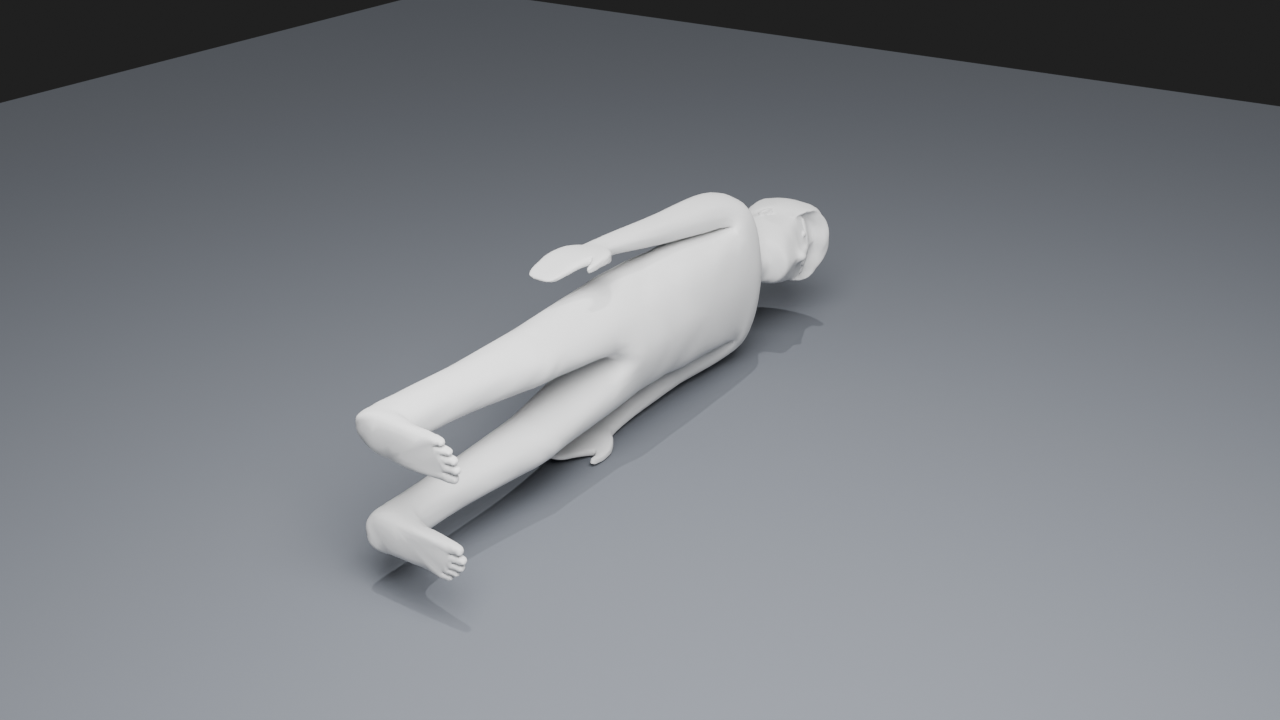
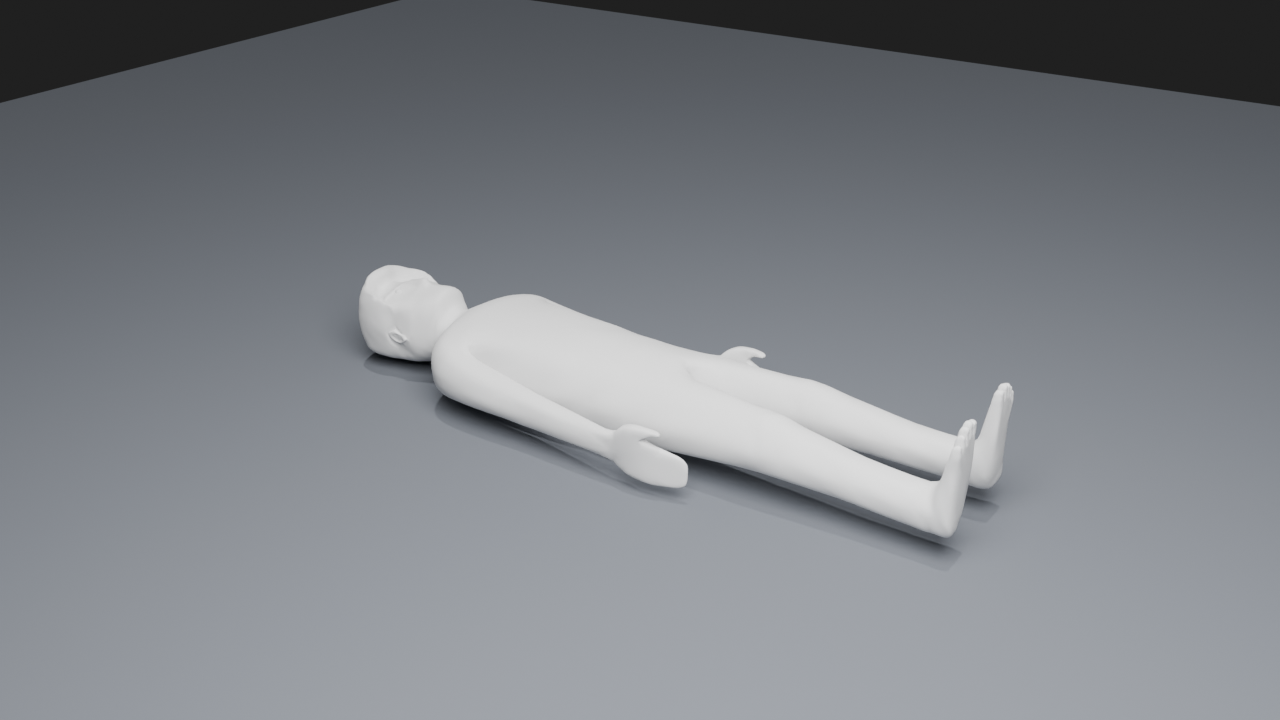
Fix supine orientation (lay on back, not side); correct dimensions
Figure faces along X, so rotate about Y (-90) to lie on its back; rotating
about X only rolled it onto its side. Width/thickness in README were swapped.

Changed region(s): [[0.2812, 0.2444, 0.8125, 0.8556]]

diff --git a/build_blend.py b/build_blend.py
@@ -47,8 +47,10 @@ sub.render_levels = SUBDIV
 #  deterministic). Import is standing: head +Z, long axis Z (~5.54 units).
 s = HEIGHT / max(body.dimensions)
 body.data.transform(mathutils.Matrix.Scale(s, 4))
-# lay supine: -90 deg about X tips head +Z -> +Y and the front face up (+Z)
-body.data.transform(mathutils.Matrix.Rotation(math.radians(-90), 4, 'X'))
+# lay supine: the figure faces along X, so tipping about Y lays it on its BACK
+# (a rotation about X would only roll it onto its side). -90 deg -> face up (+Z),
+# head toward -X, feet toward +X.
+body.data.transform(mathutils.Matrix.Rotation(math.radians(-90), 4, 'Y'))
 body.data.update()
 # drop so the lowest point rests on z = 0
 zmin = min(v.co.z for v in body.data.vertices)

diff --git a/README.md b/README.md
@@ -50,11 +50,11 @@ Scaled to a 1.75 m adult and laid on its back, the mesh measures (in metres):
 
 | Axis | Extent | Meaning |
 |------|--------|---------|
-| Length | **1.75 m** | head → foot (the "height" of the person) |
-| Width | **0.33 m** | left → right, arms at sides |
-| Thickness | **0.52 m** | back → front, lying down (feet point up, so the toes set this) |
+| Length (X) | **1.75 m** | head → foot (the "height" of the person) |
+| Width (Y) | **0.52 m** | left → right, across shoulders with arms at sides |
+| Thickness (Z) | **0.33 m** | back → front — i.e. how high the body sits off the table when supine |
 
-(Subdivision-surface-evaluated extents: 1.75 × 0.32 × 0.52 m. The figure is
+(Subdivision-surface-evaluated extents: 1.75 × 0.52 × 0.32 m. The figure is
 low-poly/stylised, so proportions are approximate, not anatomical.)
 
 ### Scaling to a real height (`human_posed.glb`)